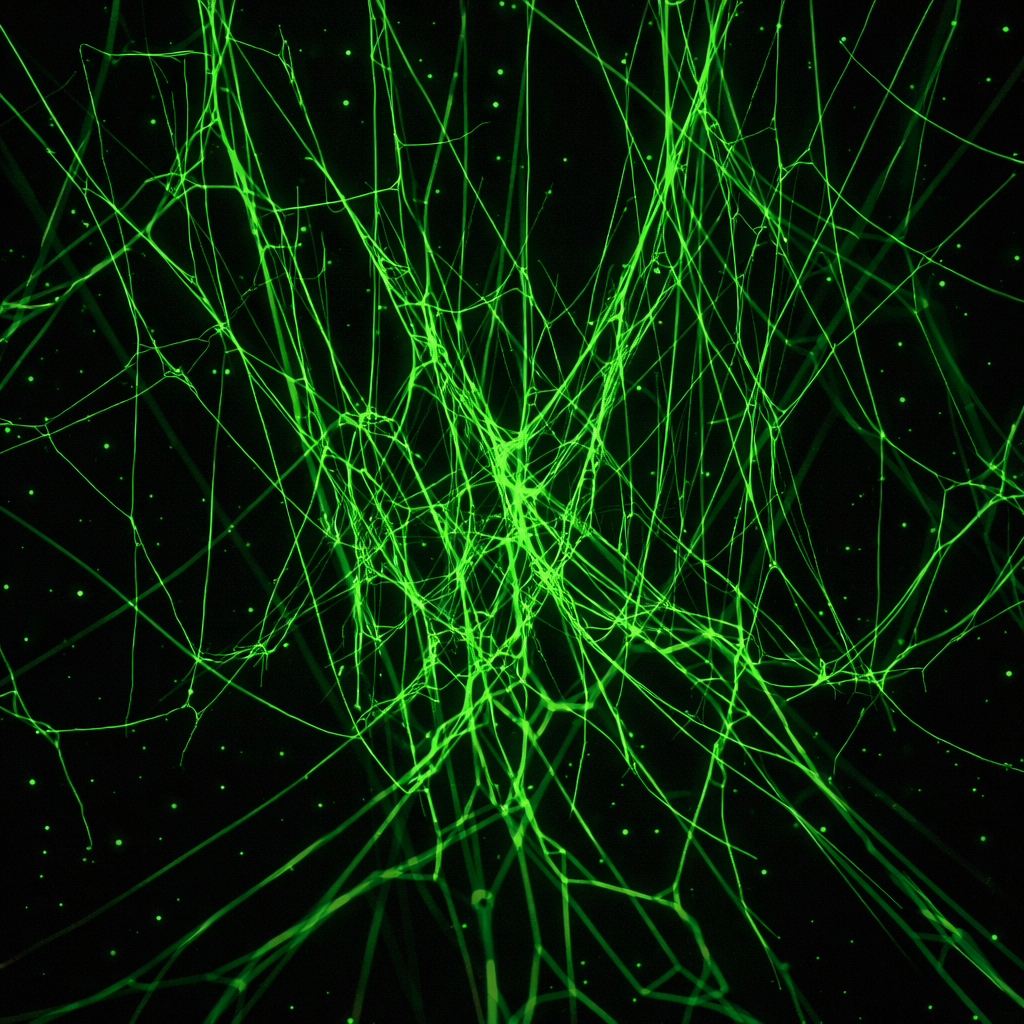
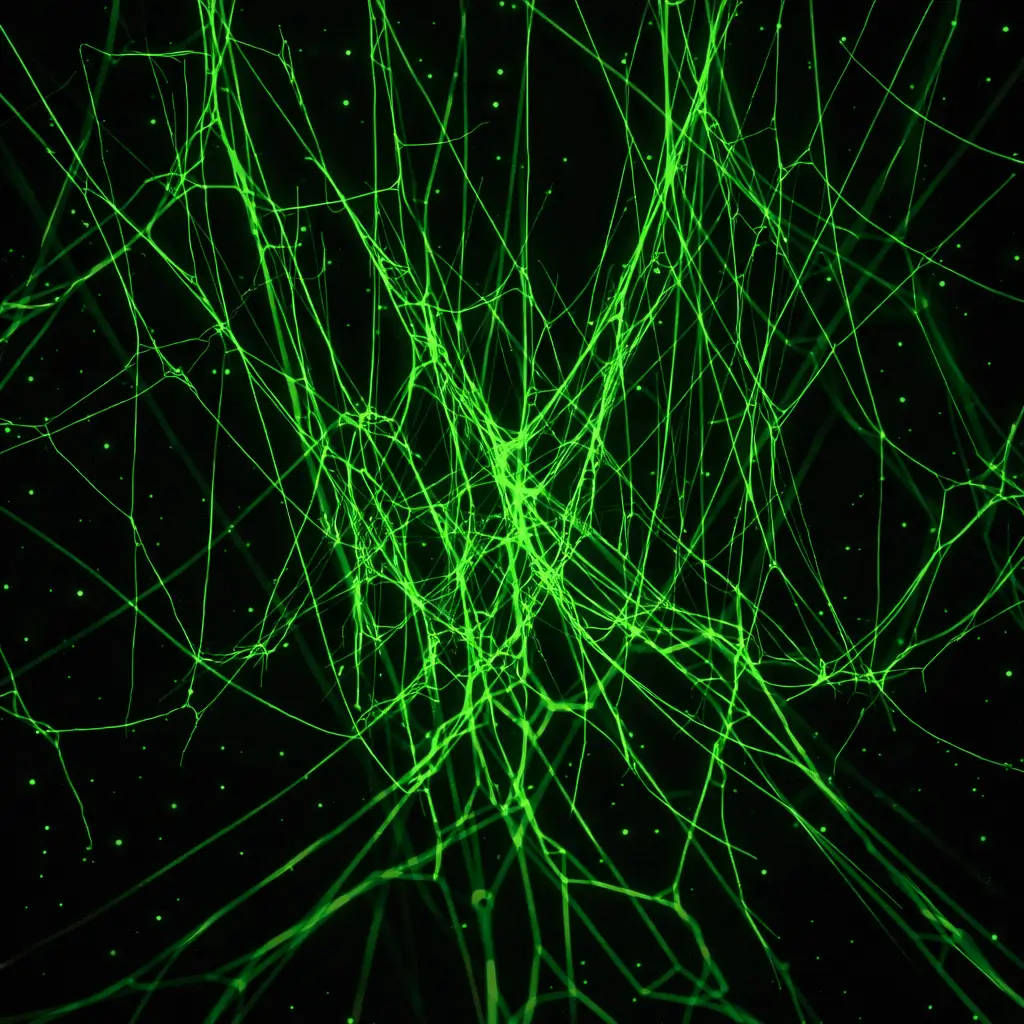
Optimizacion de todas las images del proyecto, actualizacion de la meta description y correccion de errores ortograficos en algunas secciones. Optimizacion de todos los titles.

diff --git a/index.html b/index.html
@@ -3,7 +3,7 @@
 <head>
     <meta charset="UTF-8">
     <meta name="viewport" content="width=device-width, initial-scale=1.0">
-    <meta name="description" content="Desarrolladora web frontend junior con conocimientos en HTML5, CSS, SCSS, Bootstrap, Git y GitHub. Enfoque en responsive design y buenas prácticas.">
+    <meta name="description" content="Desarrolladora web frontend junior con conocimientos en HTML5, CSS3 y SCSS. Construyo interfaces responsivas y gestiono versiones con Git y GitHub. Portfolio profesional orientado a oportunidades en desarrollo frontend.">
    <!-- link fonts -->
    <link rel="preconnect" href="https://fonts.googleapis.com">
 <link rel="preconnect" href="https://fonts.gstatic.com" crossorigin>
@@ -20,7 +20,7 @@
  <link rel="stylesheet" href="https://cdnjs.cloudflare.com/ajax/libs/animate.css/4.1.1/animate.min.css">
   <!-- link css -->
      <link rel="stylesheet" href="css/style.css">
-    <title> Portafolio/Camila Ballarino/Inicio</title>
+    <title>Desarrolladora Web Frontend | HTML5, CSS3, SCSS, Bootstrap y Git </title>
 </head>
 
 <body class="pagina-principal">
@@ -60,7 +60,7 @@
             <section class="contenido-principal">
                 <h2>Desarrolladora Web Frontend</h2>
               <span class="type"><span>Desarrolladora Frontend Junior</span></span>
-                <p>Desarrollo interfaces web responsive utilitazndo tecnologías como</p>
+                <p>Desarrollo interfaces web responsive utilizando tecnologías como</p>
                 <p class="bolder"> HTML5, CSS, SCSS, Bootstrap, Animaciones, Git y GitHub.</p>
                 <p>Me enfoco en buenas prácticas, maquetación semántica y diseño responsivo.</p>
                  
@@ -80,7 +80,7 @@
        <a href="https://github.com/Camila18-jpg" target="_blank">
         <img src="images/git.webp" alt="Github">
        </a>
-       <a href="mailto:ballarinocamila@gmail.com">
+      <a href="https://mail.google.com/mail/?view=cm&fs=1&to=ballarinocamila@gmail.com" target="_blank" rel="noopener noreferrer">
         <img src="images/mail.webp" alt="Email">
        </a>
 

diff --git a/pages/proyectos.html b/pages/proyectos.html
@@ -2,7 +2,7 @@
 <html lang="en">
 <head>
     <meta charset="UTF-8">
-   <meta name="" content="">
+   <meta name="description" content="Selección de proyectos de desarrollo frontend donde aplico HTML5, CSS3, SCSS y Bootstrap para crear interfaces funcionales y optimizadas. Código estructurado y gestión con GitHub.">
     <meta name="viewport" content="width=device-width, initial-scale=1.0">
     <!-- link fonts -->
    <link rel="preconnect" href="https://fonts.googleapis.com">
@@ -20,7 +20,7 @@
  <link rel="stylesheet" href="https://cdnjs.cloudflare.com/ajax/libs/animate.css/4.1.1/animate.min.css">
 <!-- link css -->
     <link rel="stylesheet" href="../css/style.css">
-    <title>Portafolio/Camila Ballarino/Proyectos</title>
+    <title>Proyectos de Desarrollo Web Frontend | Casos Prácticos</title>
 </head>
 <body class="pagina-proyectos">
     <!--  -->
@@ -62,7 +62,7 @@
 
             <p>Aquí se muestran proyectos personales y de práctica que forman parte de mi Portafolio Personal.</p> 
 
-            <p class="color">Actualmente me encuentro en la búsqueda de mis primeras experiencias laborales como Desarrolladora Frontend, con el objetivo de aplicar mis conocimientos en proyectos reales y seguir formándome en el ambito del Desarrollo Web..</p> 
+            <p class="color">Actualmente me encuentro en la búsqueda de mis primeras experiencias laborales como Desarrolladora Frontend, con el objetivo de aplicar mis conocimientos en proyectos reales y seguir formándome en el ambito del Desarrollo Web.</p> 
 
           </div> 
 
@@ -95,8 +95,8 @@
        <a href="https://github.com/Camila18-jpg" target="_blank">
         <img src="../images/git.webp" alt="Github">
        </a>
-       <a href="mailto:ballarinocamila@gmail.com">
-         <img src="../images/mail.webp" alt="Email">
+      <a href="https://mail.google.com/mail/?view=cm&fs=1&to=ballarinocamila@gmail.com" target="_blank" rel="noopener noreferrer">
+        <img src="../images/mail.webp" alt="Email">
        </a>
 
     </div>

diff --git a/pages/contacto.html b/pages/contacto.html
@@ -3,7 +3,7 @@
 <head>
     <meta charset="UTF-8">
     <meta name="viewport" content="width=device-width, initial-scale=1.0">
-    <meta name="description" content="Contactá a una desarrolladora web freelance para crear o mejorar tu sitio web. Consultas, presupuestos y proyectos personalizados sin compromiso.">
+    <meta name="description" content="Disponible para oportunidades como desarrolladora frontend. Contacto profesional para empresas o reclutadores que busquen conocimientos en HTML, CSS, Bootstrap y control de versiones con Git.">
     <!-- link fonts -->
    <link rel="preconnect" href="https://fonts.googleapis.com">
 <link rel="preconnect" href="https://fonts.gstatic.com" crossorigin>
@@ -20,7 +20,7 @@
  <link rel="stylesheet" href="https://cdnjs.cloudflare.com/ajax/libs/animate.css/4.1.1/animate.min.css">
 <!-- link css -->
     <link rel="stylesheet" href="../css/style.css">
-    <title>Portafolio/Camila Ballarino/Contacto</title>
+    <title>Contacto Profesional | Oportunidades Frontend Junior</title>
 </head>
 
 <body class="pagina-contacto">
@@ -119,10 +119,9 @@
        <a href="https://github.com/Camila18-jpg" target="_blank">
         <img src="../images/git.webp" alt="Github">
        </a>
-       <a href="mailto:ballarinocamila@gmail.com">
-         <img src="../images/mail.webp" alt="Email">
+       <a href="https://mail.google.com/mail/?view=cm&fs=1&to=ballarinocamila@gmail.com" target="_blank" rel="noopener noreferrer">
+        <img src="../images/mail.webp" alt="Email">
        </a>
-
     </div>
  </footer>   
   

diff --git a/pages/sobre-mi.html b/pages/sobre-mi.html
@@ -3,7 +3,7 @@
 <head>
     <meta charset="UTF-8">
     <meta name="viewport" content="width=device-width, initial-scale=1.0">
-    <meta name="description" content="Desarrolladora web frontend freelance en formación. Creo sitios web modernos, funcionales y responsive, con foco en buenas prácticas y aprendizaje constante.">
+    <meta name="description" content="Perfil profesional en desarrollo web frontend junior con conocimiento en maquetación semántica, diseño responsive y control de versiones con Git. Conocimientos técnicos en HTML, CSS y frameworks de estilos modernos.">
   <!-- link fonts -->
    <link rel="preconnect" href="https://fonts.googleapis.com">
 <link rel="preconnect" href="https://fonts.gstatic.com" crossorigin>
@@ -20,7 +20,7 @@
  <link rel="stylesheet" href="https://cdnjs.cloudflare.com/ajax/libs/animate.css/4.1.1/animate.min.css">
 <!-- link css -->
     <link rel="stylesheet" href="../css/style.css">
-    <title>Portafolio/Camila Ballarino/Sobre mí</title>
+    <title>Perfil Profesional Frontend Junior| Desarrollo Web y Maquetación</title>
 </head>
 
 <body class="pagina-sobre-mi">
@@ -121,9 +121,10 @@
        <a href="https://github.com/Camila18-jpg" target="_blank">
         <img src="../images/git.webp" alt="Github">
        </a>
-       <a href="mailto:ballarinocamila@gmail.com">
+      <a href="https://mail.google.com/mail/?view=cm&fs=1&to=ballarinocamila@gmail.com" target="_blank" rel="noopener noreferrer">
         <img src="../images/mail.webp" alt="Email">
        </a>
+
 
     </div>
  </footer>

diff --git a/gracias.html b/gracias.html
@@ -3,6 +3,7 @@ nt<!DOCTYPE html>
 <head>
     <meta charset="UTF-8">
     <meta name="viewport" content="width=device-width, initial-scale=1.0">
+    <meta name="description" content="Tu mensaje fue enviado correctamente. Pronto recibirás respuesta sobre tu consulta relacionada con desarrollo web frontend.">
     <!-- link fonts -->
    <link rel="preconnect" href="https://fonts.googleapis.com">
 <link rel="preconnect" href="https://fonts.gstatic.com" crossorigin>
@@ -19,7 +20,7 @@ nt<!DOCTYPE html>
  <link rel="stylesheet" href="https://cdnjs.cloudflare.com/ajax/libs/animate.css/4.1.1/animate.min.css">
   <!-- link css -->
     <link rel="stylesheet" href="css/style.css">
-    <title>Portafolio/Camila Ballarino/Agradecimiento</title>
+    <title>Mensaje Enviado | Gracias por Contactar</title>
 </head>
 <body class="pagina-de-agradecimiento">
      <!-- encabezado -->

diff --git a/sass/style.scss b/sass/style.scss
@@ -981,7 +981,9 @@ animation-iteration-count: infinite;
                 .contacto-texto { 
                     font-size: 1rem;
                      } 
-
+                  .contacto-texto-negrita { 
+                    font-size: 1rem;
+                     }    
             } 
 
             .form-contacto { 

diff --git a/css/style.css b/css/style.css
@@ -717,6 +717,9 @@ main .boton-scroll {
   .contacto .contacto-titulo .contacto-texto {
     font-size: 1rem;
   }
+  .contacto .contacto-titulo .contacto-texto-negrita {
+    font-size: 1rem;
+  }
   .contacto .form-contacto {
     max-width: 100%;
     border-width: 2px;
